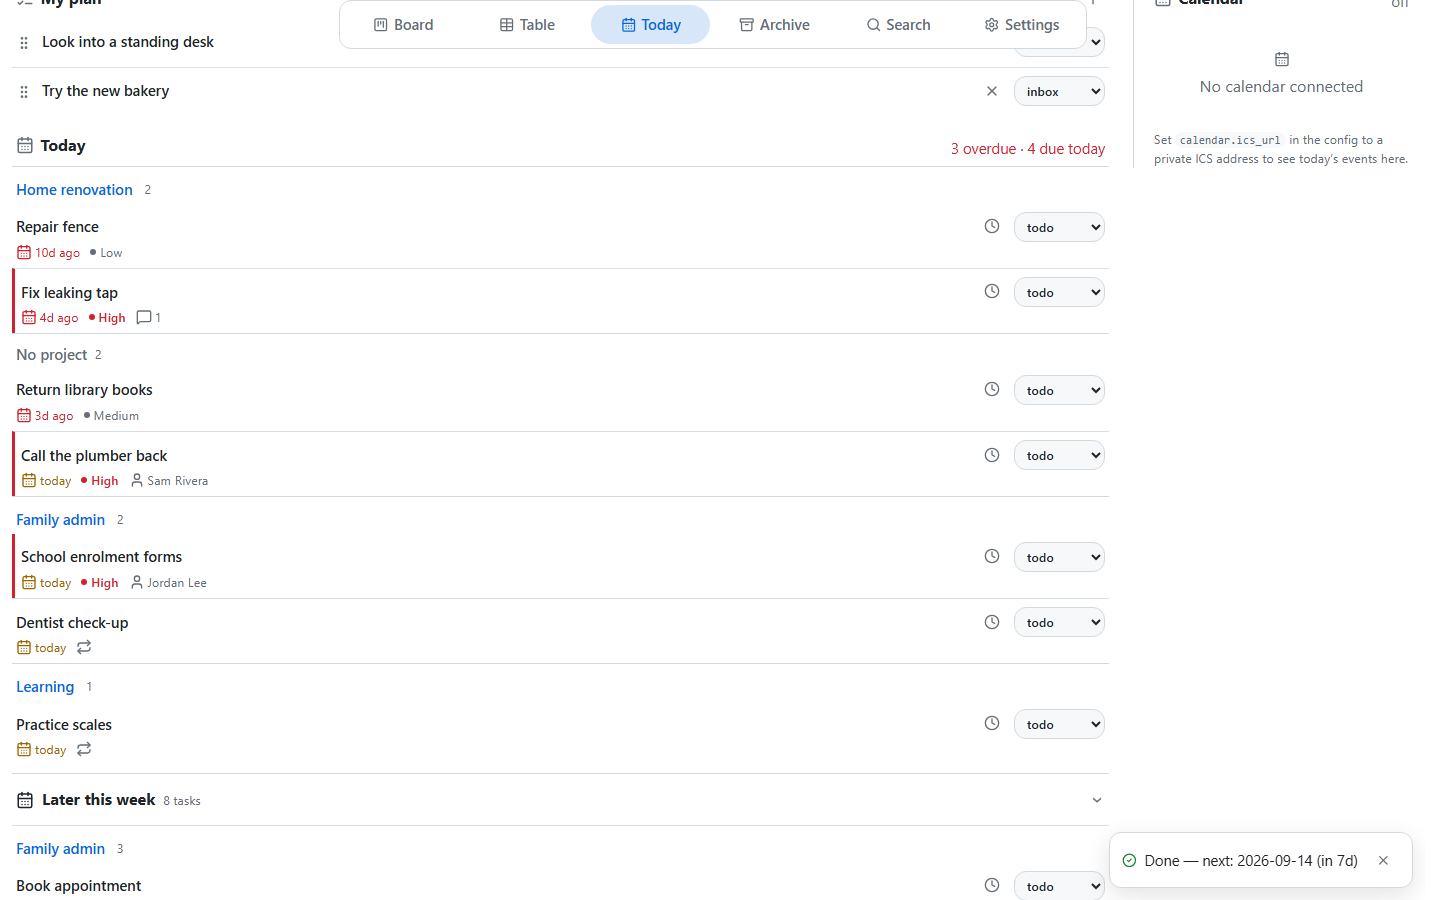
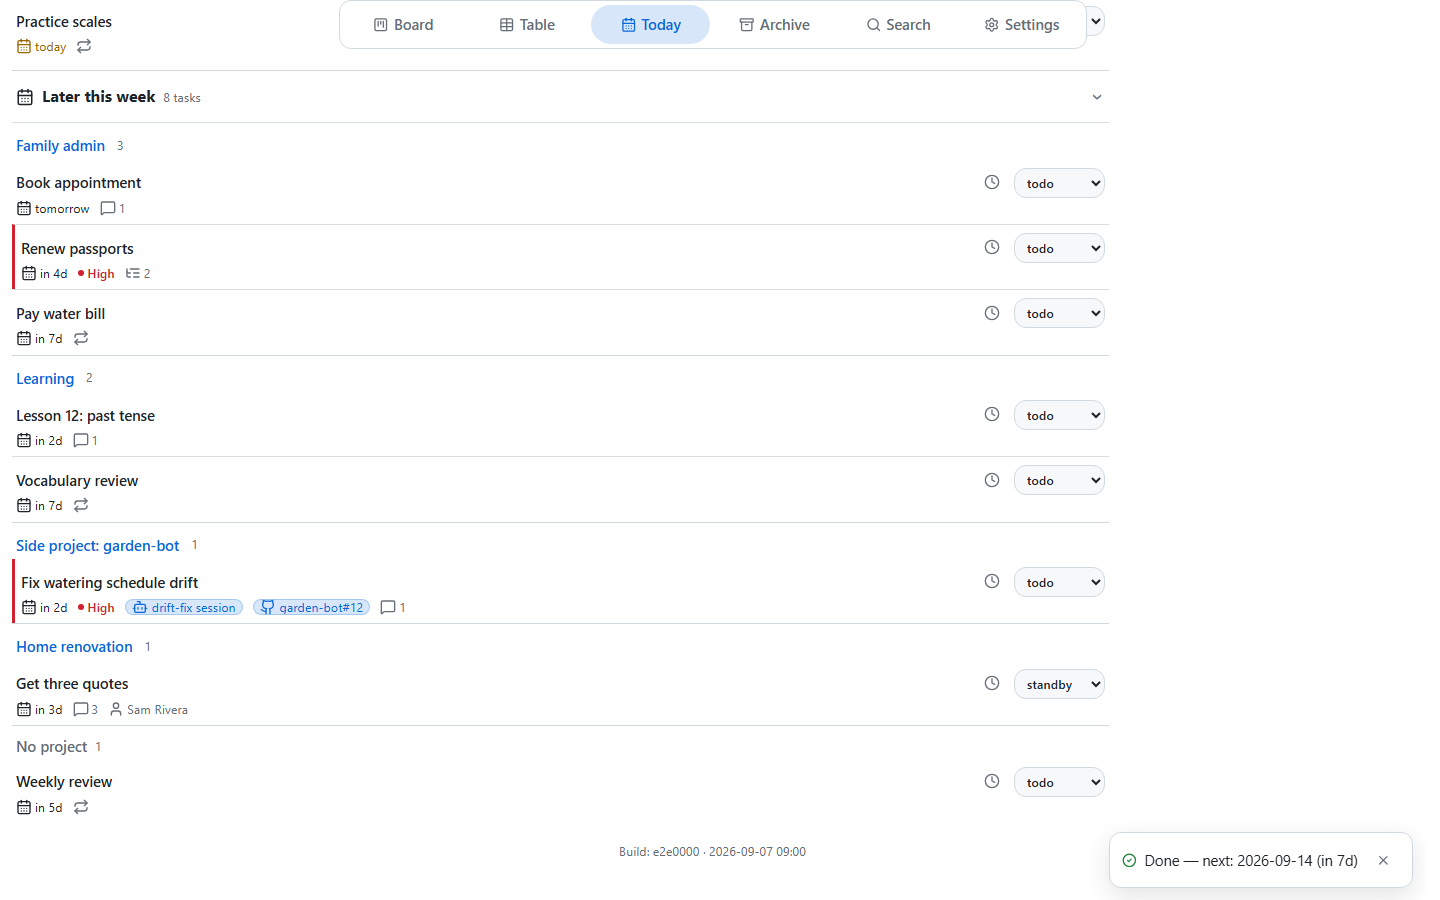
fix: default the Today "Later this week" disclosure to open
- renderToday rebuilt the disclosure fresh on every render with no
  open state, so it silently defaulted to collapsed every time
  regardless of how many tasks were due later this week
- set later.card.open = true so it renders expanded by default while
  staying collapsible via its own chevron
- update story-05's e2e assertions and re-baseline its screenshot for
  the new default-open state

Closes #253

Claude-Session: https://claude.ai/code/session_01TEN5KNQYFL15dpcsNzLxgm

diff --git a/app/webapp/static/today.js b/app/webapp/static/today.js
@@ -3,7 +3,8 @@
  * Tasks due ≤ today (overdue first, then today), grouped by root project
  * with the shared due-first sort inside each group (#116 — a task's date
  * always decides its position, recurring or not); "Later this week"
- * (tomorrow … +7 days) sits collapsed below as a flat disclosure. Rows are
+ * (tomorrow … +7 days) sits open by default below as a flat disclosure,
+ * collapsible via its own chevron (#253). Rows are
  * the ONE task row (rows.js, issue #46) — title + status select (the Board
  * control; the old checkbox is gone), the meta line (project hidden — the
  * group already names it) and the snooze control (#87) — the one view that
@@ -170,10 +171,13 @@ export function renderToday(host, items, handlers, opts) {
   main.appendChild(section);
 
   // Later this week — a flat disclosure (vendored markup, hairline instead of a card box).
+  // Open by default (#253) — renderToday rebuilds the host from scratch every
+  // call, so there is no user-toggle state to preserve across a re-render.
   const later = collapsibleCard({
     className: 'disclosure-flat today-later', icon: 'calendar-days', title: 'Later this week',
     count: counts.week + (counts.week === 1 ? ' task' : ' tasks'),
   });
+  later.card.open = true;
   if (!data.week.length) {
     later.body.appendChild(emptyStateEl('calendar-days', 'Nothing due in the next seven days'));
   } else {

diff --git a/tests/e2e/test_story_05_board.py b/tests/e2e/test_story_05_board.py
@@ -297,7 +297,7 @@ def test_desktop_board_day(seeded_webapp: str, browser: Browser, playwright: Pla
         expect(school.locator(".trow-person")).to_contain_text("Jordan Lee")
         expect(page.locator("#paneToday .trow-project")).to_have_count(0)
         later = page.locator(".today-later")
-        assert later.evaluate("el => el.open") is False              # collapsed by default
+        assert later.evaluate("el => el.open") is True                # open by default (#253)
         expect(later.locator(".collapse-count")).to_have_text(f"{today['counts']['week']} tasks")
         shot(page, shots / "story-05-board-5-desktop.png")
 
@@ -315,12 +315,12 @@ def test_desktop_board_day(seeded_webapp: str, browser: Browser, playwright: Pla
         rolled = _get(base, f"/api/tasks/{vid}")
         assert rolled["due"] == next_due and rolled["status"] == "todo"
         assert rolled["activity"][0]["field"] == "due"
-        later.locator("summary.collapse-summary").click()
         rolled_row = later.locator(f".trow[data-id='{vid}']")
         expect(rolled_row).to_be_visible()
         expect(rolled_row.locator(".trow-status")).to_have_value("todo")
         expect(rolled_row.locator(".trow-due")).to_have_attribute("title", next_due)
         expect(due_counts).to_contain_text(f"{today['counts']['today'] - 1} due today")
+        rolled_row.scroll_into_view_if_needed()
         shot(page, shots / "story-05-board-6-desktop.png")
 
         # 7b. The same recurring task, picked "done" instead of "complete":
